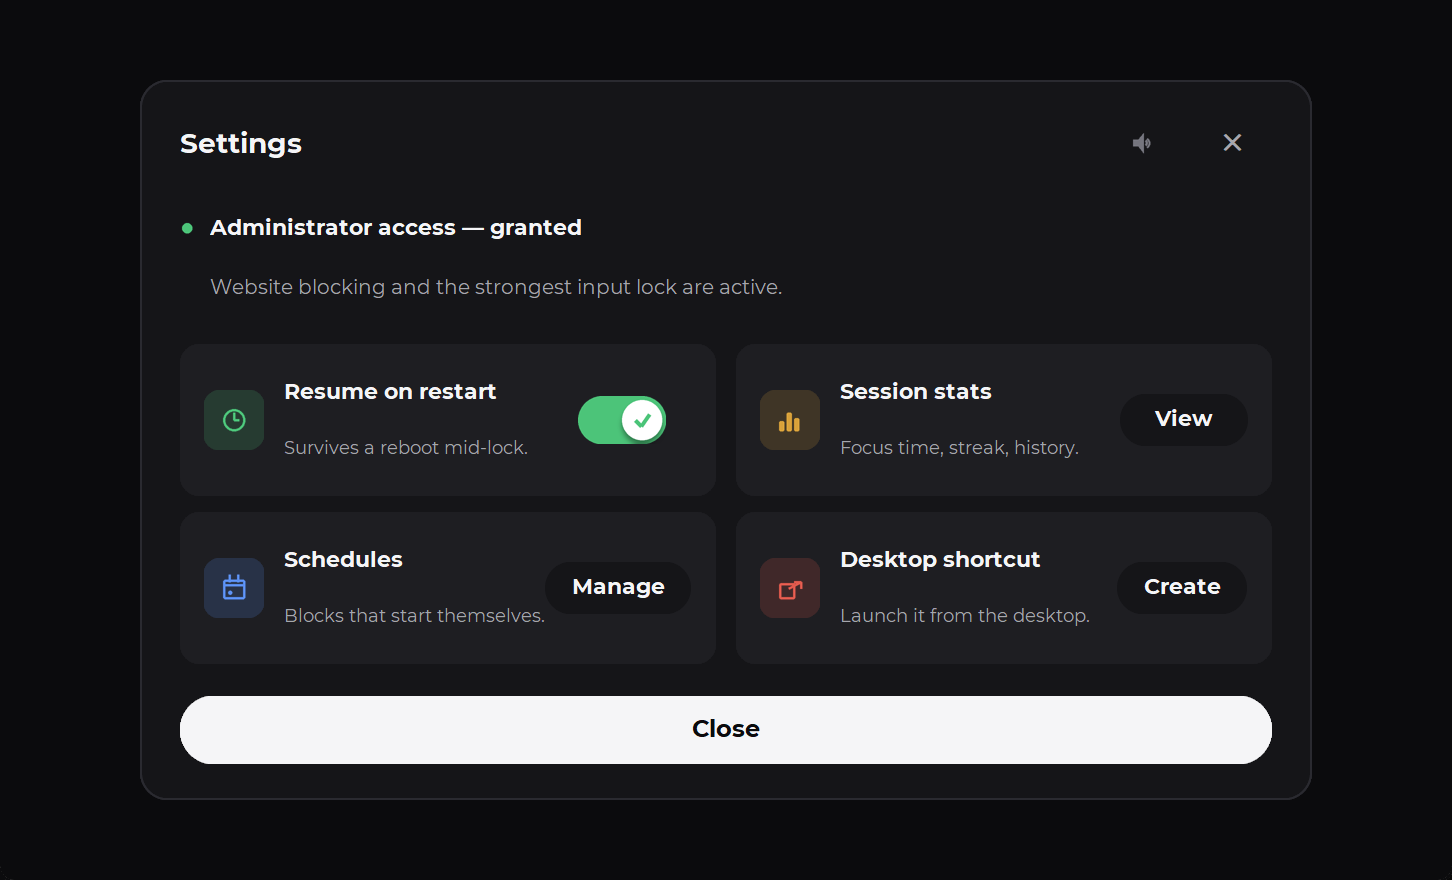
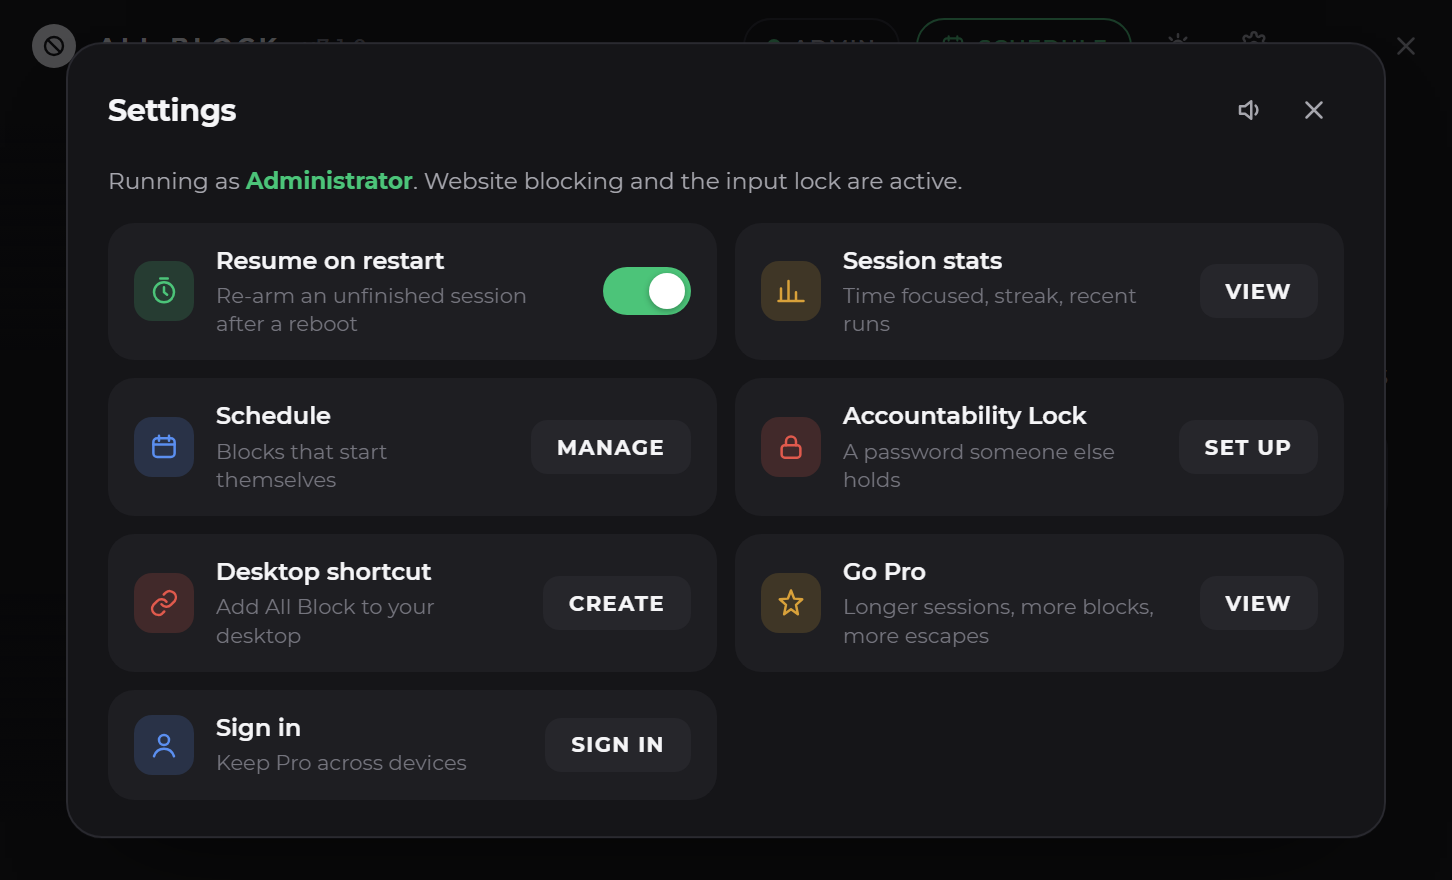
Site: fresh app screenshots at v7.1.0, and a title that fits a tab
The four shots were still showing v7.0.0 and settings copy that no longer
exists. Re-taken from the app's own interface at 2x, with every label, preset
and limit in them coming from core.py, so the page and the app say the same
thing. Alt text and captions follow what's actually in the new images.

Title shortened: a tab truncates around 25 characters and the old one was cut
mid-phrase at "there's no...".

diff --git a/docs/index.html b/docs/index.html
@@ -4,7 +4,10 @@
 <script>document.documentElement.className="js";</script>
 <meta charset="utf-8">
 <meta name="viewport" content="width=device-width, initial-scale=1">
-<title>All Block — the blocker there's no way around</title>
+<!-- Short on purpose: a browser tab shows roughly 25 characters before it
+     truncates, and the old title was cut mid-phrase at "there's no…". The
+     search-result headline lives in the description and og: tags. -->
+<title>All Block for Windows</title>
 <meta name="description" content="Every other blocker keeps a list you can edit your way out of. All Block switches your mouse and keyboard off system-wide until the time is up — and a password someone else holds can stop you changing it. For gaming, doomscrolling, sleep, study, and kids' screen time. Free for Windows.">
 <meta property="og:title" content="All Block">
 <meta property="og:description" content="A blocker you can't bypass: All Block switches your mouse and keyboard off until the timer ends.">
@@ -659,12 +662,12 @@ footer a:hover{color:var(--ink)}
     <div class="shots2">
       <figure class="shot rise">
         <img src="img/schedules_light.png" width="1452" height="880" loading="lazy"
-             alt="The Schedules window listing three recurring blocks with on and off switches">
-        <figcaption><b>Three slots, one screen</b>Switch any of them off without losing the setup.</figcaption>
+             alt="The Schedule window listing two recurring blocks, weekdays at 09:00 and every evening at 20:30, each with an on and off switch">
+        <figcaption><b>Set it once</b>A block starts on its own, and switches off without losing the setup.</figcaption>
       </figure>
       <figure class="shot rise">
         <img src="img/stats_light.png" width="1452" height="880" loading="lazy"
-             alt="The Session Stats window showing total focus time, session count, a seven day streak and recent sessions">
+             alt="The Session stats window showing total focus time, session count, a six day streak and the four most recent sessions">
         <figcaption><b>The receipts</b>Focus time, sessions, and the streak you'd rather not break.</figcaption>
       </figure>
     </div>
@@ -780,7 +783,7 @@ footer a:hover{color:var(--ink)}
     <div class="shots2" style="margin-top:26px">
       <figure class="shot rise">
         <img src="img/settings_light.png" width="1452" height="880" loading="lazy"
-             alt="The All Block settings window with resume on restart, session stats, schedules and desktop shortcut options">
+             alt="The All Block settings window: resume on restart, session stats, schedule, the Accountability Lock, a desktop shortcut, Go Pro and sign in">
         <figcaption><b>All of it in one panel</b>Settings is a single screen, because there isn't much to set.</figcaption>
       </figure>
       <figure class="shot rise">
